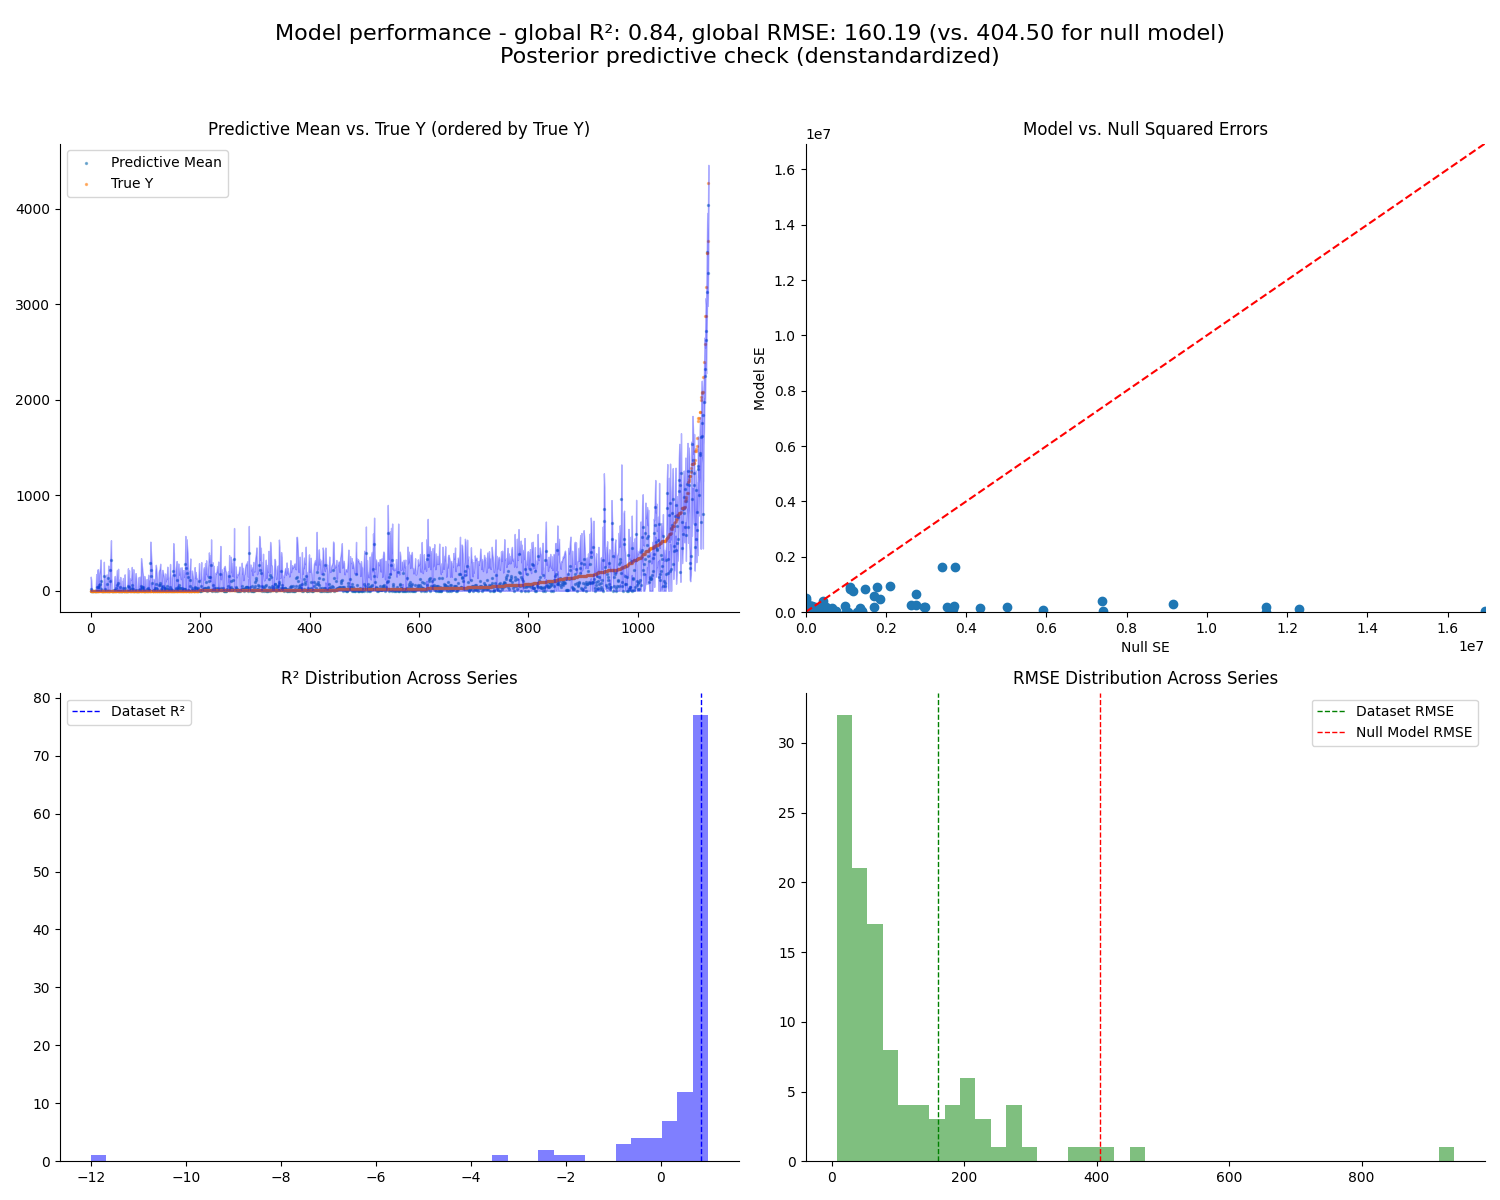
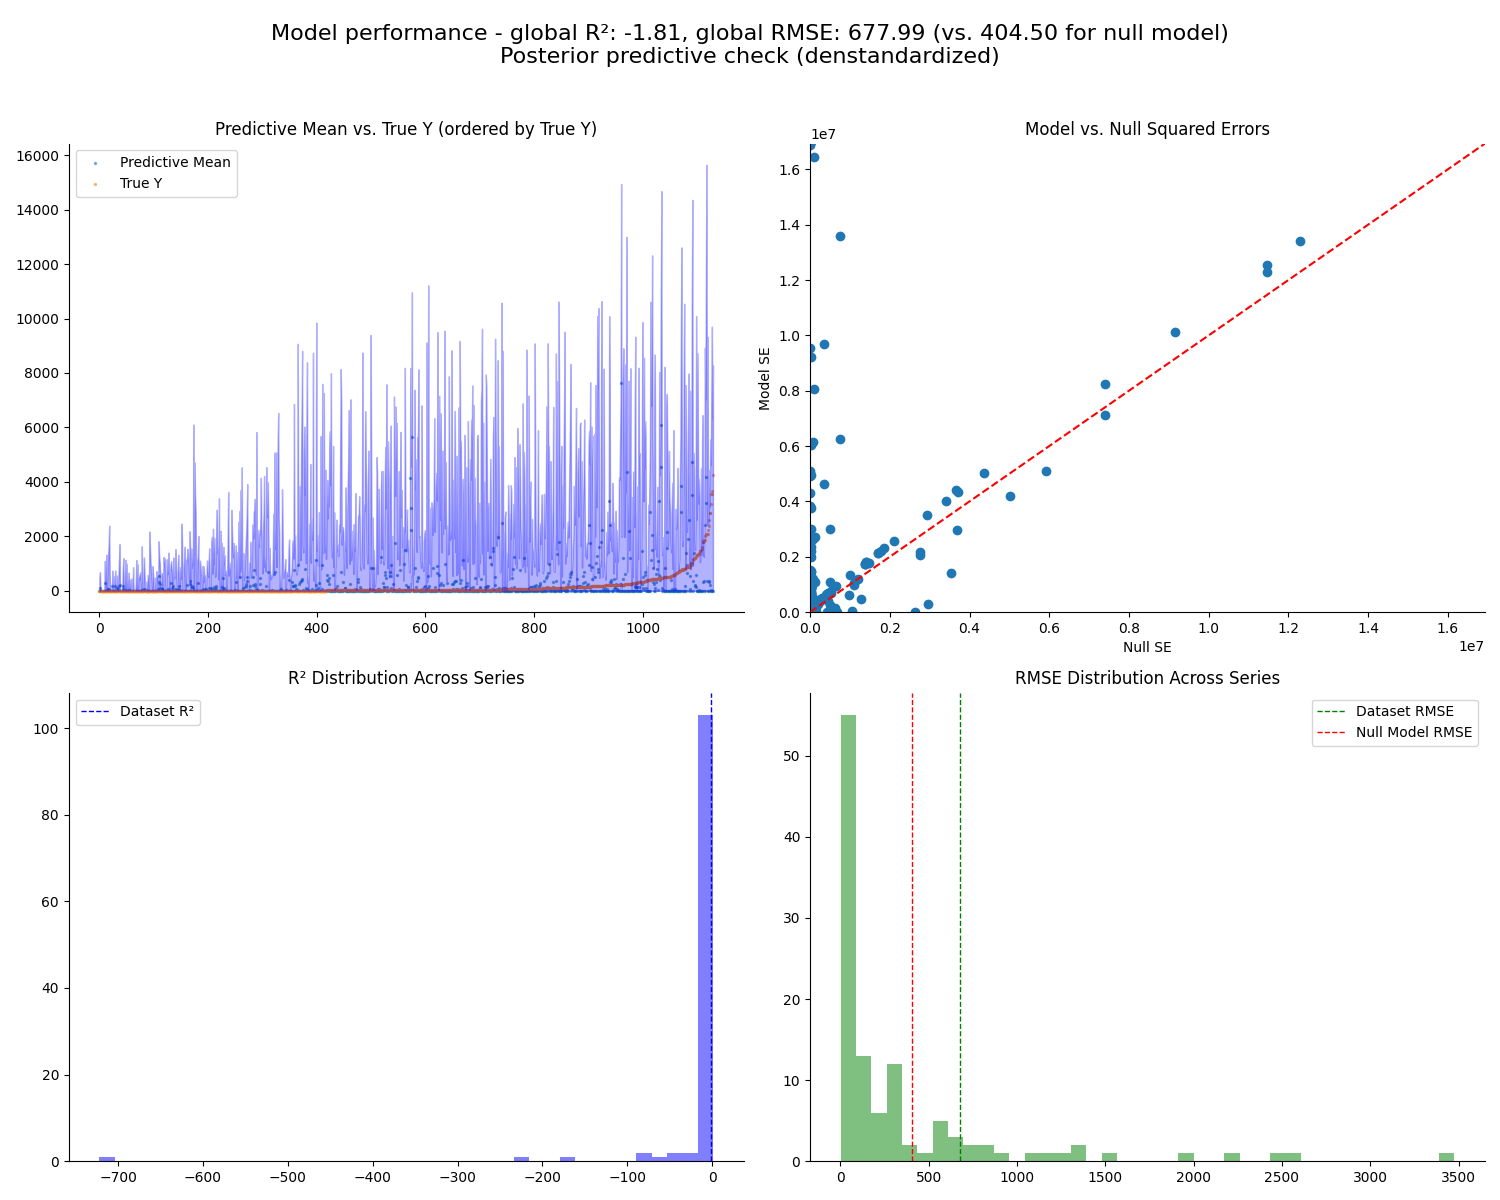
inference with full causal model works, evaluation WIP

diff --git a/cities/modeling/zoning_models/zoning_tracts_ts_model.py b/cities/modeling/zoning_models/zoning_tracts_ts_model.py
@@ -10,6 +10,8 @@ from cities.modeling.model_components import (
     get_n,
     get_categorical_levels,
     check_categorical_is_subset_of_levels,
+    add_linear_component,
+    add_ratio_component,
 )
 
 
@@ -106,34 +108,6 @@ class TractsModelCumulativeAR1(pyro.nn.PyroModule):
                 "distance", dist.Normal(0, 1), obs=continuous["median_distance"]
             )
 
-    
-
-            ## temporary plug in of predictors meant to come from a causal model
-
-            median_value = pyro.sample(
-                "median_value", dist.Normal(0, 1), obs=continuous["median_value"]
-            )
-            
-            income = pyro.sample( 
-                "income", dist.Normal(0, 1), obs=continuous["income"]
-            )
-
-            white = pyro.sample(
-                "white", dist.Normal(0, 1), obs=continuous["white_original"]
-            )
-
-            limit = pyro.sample(
-                "limit", dist.Normal(0, 1), obs=continuous["mean_limit_original"]
-            )
-
-            segregation = pyro.sample(
-                "segregation", dist.Normal(0, 1), obs=continuous["segregation_original"]
-            )
-
-            sqm = pyro.sample(
-                "sqm", dist.Normal(0, 1), obs=continuous["parcel_sqm"]
-            )
-
             downtown_overlap = pyro.sample(
                 "downtown_overlap",
                 dist.Normal(0, 1),
@@ -145,6 +119,158 @@ class TractsModelCumulativeAR1(pyro.nn.PyroModule):
                 dist.Normal(0, 1),
                 obs=continuous["university_overlap"],
             )
+
+        # ______________________
+        # regression for sqm
+        # ______________________
+
+        sqm_continuous_parents = {
+            "distance": distance,
+        }
+
+        sqm_categorical_parents = {
+            "year": year,
+        }
+
+        sqm = add_linear_component(
+            child_name="sqm",
+            child_continuous_parents=sqm_continuous_parents,
+            child_categorical_parents=sqm_categorical_parents,
+            leeway=0.5,
+            data_plate=data_plate,
+            observations=continuous["parcel_sqm"],
+            categorical_levels=self.categorical_levels,
+        )
+
+
+
+        # _______________________
+        # regression for limit
+        # _______________________
+
+        limit_continuous_parents = {
+            "distance": distance,
+            "downtown_overlap": downtown_overlap,
+            "university_overlap": university_overlap,
+        }
+
+        limit_categorical_parents = {
+            "year": year,
+        }
+
+        limit = add_ratio_component(
+            child_name="limit",
+            child_continuous_parents=limit_continuous_parents,
+            child_categorical_parents=limit_categorical_parents,
+            leeway=8,  # ,
+            data_plate=data_plate,
+            observations=continuous["mean_limit_original"],
+            categorical_levels=self.categorical_levels,
+        )
+
+        # _____________________
+        # regression for white
+        # _____________________
+
+        white_continuous_parents = {
+            "distance": distance,
+            "sqm": sqm,
+            "limit": limit,
+        }
+
+        white_categorical_parents = {
+            "year": year,
+        }
+
+        white = add_ratio_component(
+            child_name="white",
+            child_continuous_parents=white_continuous_parents,
+            child_categorical_parents=white_categorical_parents,
+            leeway=8,  # 11.57,
+            data_plate=data_plate,
+            observations=continuous["white_original"],
+            categorical_levels=self.categorical_levels,
+        )
+
+        # ___________________________
+        # regression for segregation
+        # ___________________________
+
+        segregation_continuous_parents = {
+            "distance": distance,
+            "white": white,
+            "sqm": sqm,
+            "limit": limit,
+        }
+
+        segregation_categorical_parents = {
+            "year": year,
+        }
+
+        segregation = add_ratio_component(
+            child_name="segregation",
+            child_continuous_parents=segregation_continuous_parents,
+            child_categorical_parents=segregation_categorical_parents,
+            leeway=8,  # 11.57,
+            data_plate=data_plate,
+            observations=continuous["segregation_original"],
+            categorical_levels=self.categorical_levels,
+        )
+
+
+        # ______________________
+        # regression for income
+        # ______________________
+
+        income_continuous_parents = {
+            "distance": distance,
+            "white": white,
+            "segregation": segregation,
+            "sqm": sqm,
+            "limit": limit,
+        }
+
+        income_categorical_parents = {
+            "year": year,
+        }
+
+        income = add_linear_component(
+            child_name="income",
+            child_continuous_parents=income_continuous_parents,
+            child_categorical_parents=income_categorical_parents,
+            leeway=0.5,
+            data_plate=data_plate,
+            observations=continuous["income"],
+            categorical_levels=self.categorical_levels,
+        )
+
+
+        # _____________________________
+        # regression for median value
+        # _____________________________
+
+        value_continuous_parents = {
+            "distance": distance,
+            "income": income,
+            "white": white,
+            "segregation": segregation,
+            "sqm": sqm,
+            "limit": limit,
+        }
+
+        value_categorical_parents = {
+            "year": year,
+        }
+
+        median_value = add_linear_component(
+            child_name="median_value",
+            child_continuous_parents=value_continuous_parents,
+            child_categorical_parents=value_categorical_parents,
+            leeway=0.5,
+            data_plate=data_plate,
+            observations=continuous["median_value"],
+            categorical_levels=self.categorical_levels,
+        )
 
 
         ## now applying the ar1 component
